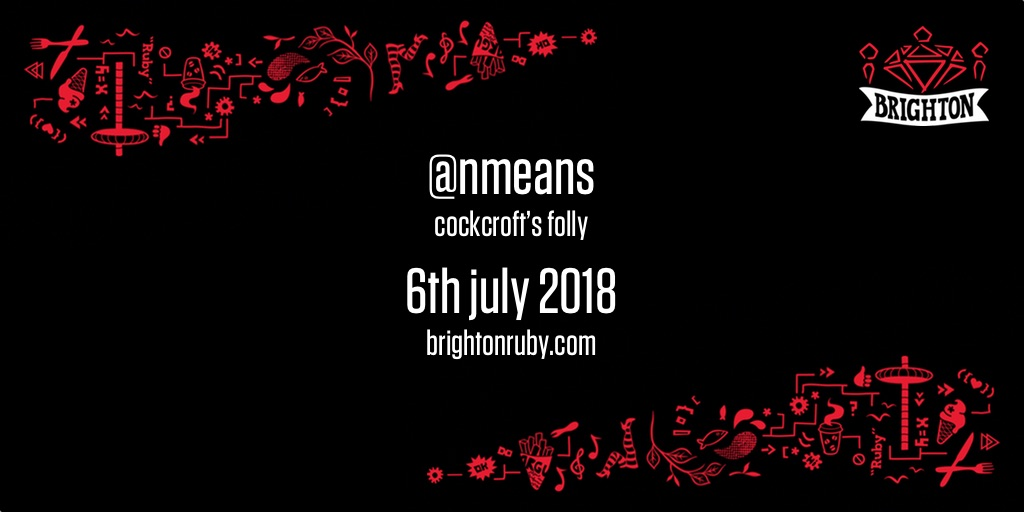
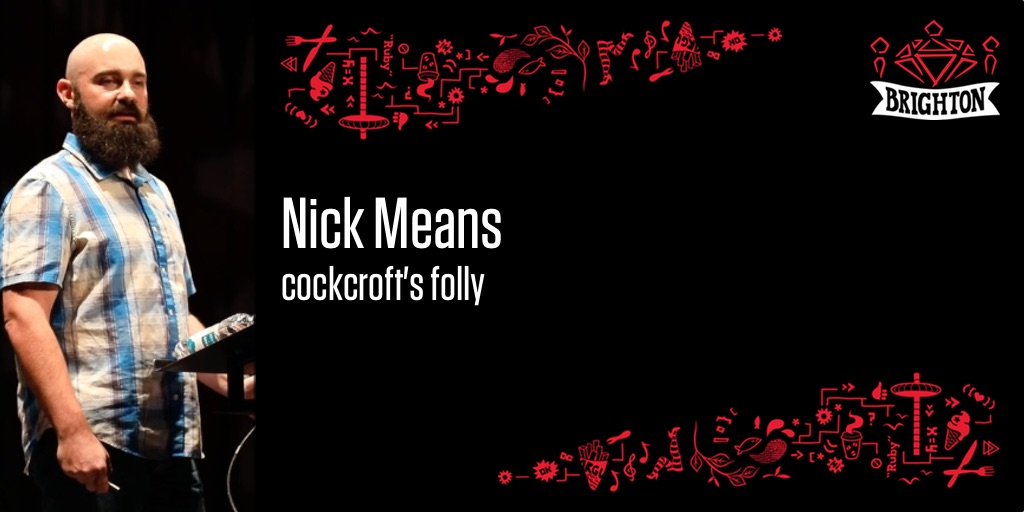
Release Nick’s video

diff --git a/_posts/2018/2018-07-06-cockcrofts-folly-nick-means.md b/_posts/2018/2018-07-06-cockcrofts-folly-nick-means.md
@@ -2,7 +2,8 @@
 title: Cockcroft’s Folly
 author: nickmeans
 date: '2018-07-06 14:00'
-layout: preview
+layout: video
+vimeo: 280581228
 image: '/images/2018/cockcrofts-folly-nick-means.jpg'
 description: 'What can we learn from a British pioneer of the nuclear age.'
 redirect_from:
